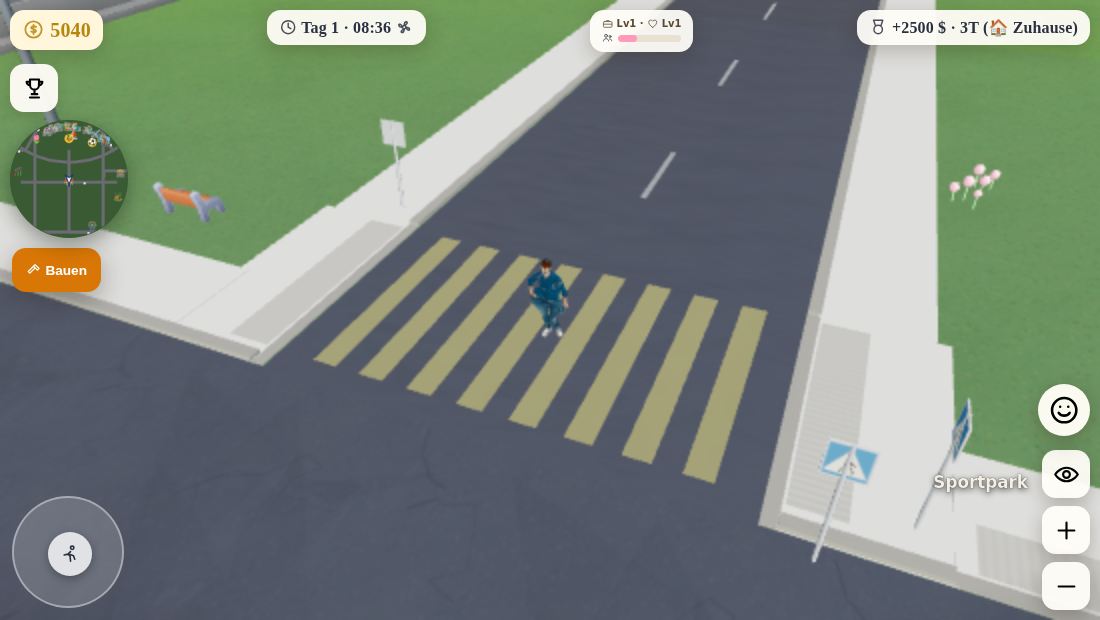
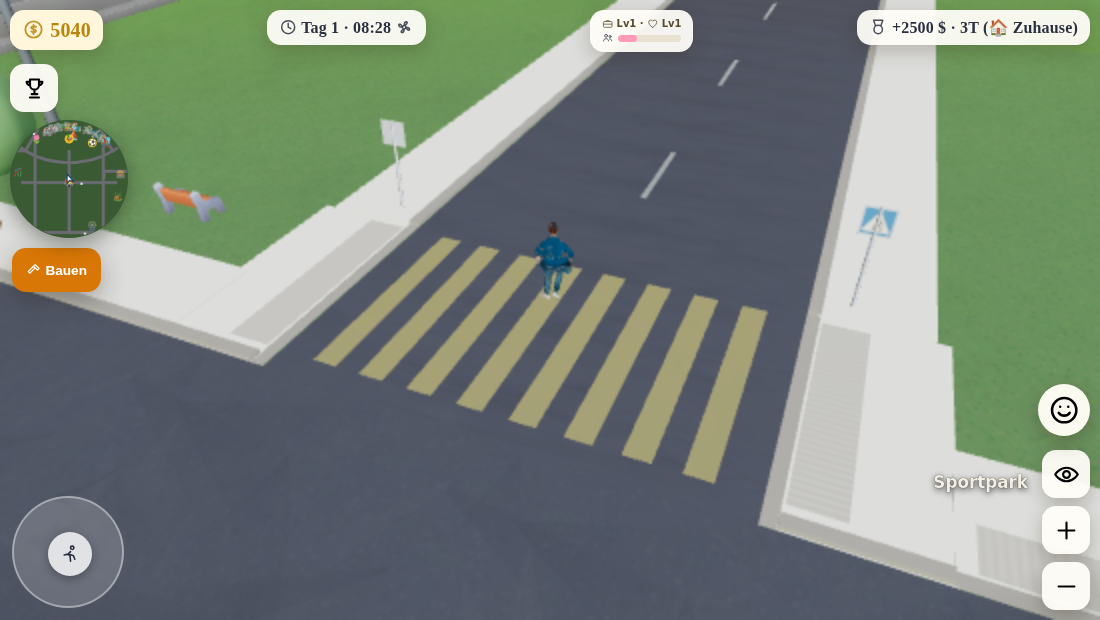
Runde 96 (Teil 5): Runbook-Abschnitt und Nachher-Bilder der T-Einmuendungen
- RUNBOOK: Runde 96 (Uebergaenge schoener) mit Vorgehen, Bauteilen, vier Lehren (_markMats-Grau,
  Messgeraet zuerst lesen, nieAusblenden fuer Instanzen, Schild hat eine Fahrtrichtung inkl.
  T-Einmuendung) und Endzahlen (th-kante 30/0, th-strassen 94, th-pruef 1001/0/2,
  probe-zebsicht 304/60/60, probe-schild 60/60).
- Bilder: Neustadt-Stich, Gewerbe, Freizeitpark, Burgdorf nachher (Eck-Schilder auf der
  anderen Streifenseite), Stich-Ecke ohne Schild in der Fahrbahn.

Claude-Session: https://claude.ai/code/session_01LKp4E9YNnEfRtqppHDhRAt

diff --git a/spiele-dev/RUNBOOK-TRAUMHAUS.md b/spiele-dev/RUNBOOK-TRAUMHAUS.md
@@ -7233,3 +7233,58 @@ Bilder: `spiele-dev/screenshots/r95-*.png` (Neustadt, Technikpark von oben, Burg
 Blumen, Weltkarte Ost, Zebra am Neustadt-Stich, Vorfeld 50 m). ⚠ th-strassen schwankt um ±3 zwischen Läufen
 (Streu ist Zufall); th-pruef nur allein laufen lassen (1001 Modelle = sauber, 804 = zu früh gemessen).
 
+
+
+## Runde 96 · 🚸 Übergänge schöner (User: „übergänge schöner")
+
+**Vorher gemessen:** alle 30 registrierten Übergänge aus `window._uebergaenge` (Sonde `probe-uebergaenge`:
+8 auf den Hauptstrassen 16 m, 8 auf den Querstrassen 10 m, 14 auf Viertelstrassen/Anschlüssen 9 m), sechs davon
+aus der Spielkamera nah fotografiert (`k24-*-vor`): weisse Balken 0,62 m im 1,15-m-Takt auf dem Asphalt, an den
+Enden hört der Gehweg auf, sonst nichts — kein Schild, keine Platte, nichts, was einen Übergang als Ort markiert.
+
+**Gebaut (eine Stelle, `_zebraAllg`, wirkt auf alle 30):**
+- **Gelbe Streifen wie in der Schweiz** (SN 640 241): 0,5 m breit, 0,5 m Lücke, Takt 1,0 m; 15 auf der Haupt-,
+  9 auf der Quer-, 8 auf der Viertelstrasse. Farbe 0xe8b73a, nachts 0x9a7d2a.
+- **Aufmerksamkeitsfeld** an jedem Ende: helle Rippenplatte 4,8 × 0,9 m auf der abgesenkten 3-cm-Platte (Rippen
+  in Gehrichtung, Oberkante 3,3 cm).
+- **Schild „Standort eines Fussgängerstreifens"** (SSV 4.11, blaues Quadrat, weisses Dreieck, schwarzer
+  Fussgänger als Canvas-Textur) auf 2,3-m-Pfahl an jedem Ende, 3,2 m neben der Streifenachse, Tafel zum
+  ankommenden Verkehr gedreht.
+- Alles als **vier InstancedMeshes** (Streifen 420, Felder/Pfähle/Tafeln je 80): vorher ~260 einzelne Planes.
+
+**Lehren:**
+1. **`_markMats` ist eine Grau-Zwangsjacke.** Der Tag/Nacht-Wechsel setzt jedes Material darin auf ein festes
+   Grau — das Vorfeld-Gelb (Runde 92) war deshalb nach dem ersten Abend grau, und gelbe Streifen wären es auch
+   geworden. Gelbe Markierungen hängen jetzt in `_gelbMats` mit eigenem Nachtton.
+2. **Erst das Messgerät lesen, dann bauen.** th-kante tastet den Bordstein im Band ±2 m um die Streifenachse ab
+   und verlangt ≤ 5 cm; th-strassen prüft jede Instanz gegen die Fahrbahnbänder. Schild darum 3,2 m neben der
+   Achse und hinter der Gehwegkante, Feld als 2-mm-Platte — beide Werkzeuge blieben so auf ihren Werten.
+3. **Instanzen brauchen `frustumCulled = false` UND `nieAusblenden`.** Die Hüllkugel der Geometrie liegt im Ursprung,
+   und die Entfernungs-Ausblendung (`lodAufbau`) entscheidet pro Objekt nach dessen Lage: die Streifen (Hüllkugel
+   2,4 m) verschwanden ab 130 m vom Ursprung, die Schilder (0,43 m) schon ab 34 m — Gewerbe und Burgdorf hatten im
+   ersten Nachher-Bild gar keinen Streifen, das Nahbild kein Schild. Sonde `probe-zebsicht` (Spieler an drei Orten,
+   `visible`/`count` der vier Meshes) belegt die Korrektur: 304 Streifen, 60 Felder/Pfähle/Tafeln, überall sichtbar.
+4. **Ein Schild hat eine Fahrtrichtung.** Rechtsverkehr (Lane-Tabelle `ROUTEN`): Strasse längs x → +z-Spur fährt
+   +x; Strasse längs z → −x-Spur fährt +z (Herleitung: rechts = Fahrtrichtung × oben). Das Schild steht auf der
+   ankommenden Spur VOR dem Streifen und schaut ihr entgegen. Der erste Anlauf hatte die x-Strassen spiegelverkehrt
+   (Bild k26-schild-nah2: der Fahrer sah die Rückseite). Sonde `probe-schild` prüft jedes der 60 Schilder gegen die
+   Regel. Erster Lauf: 56 von 60 — die vier „falschen" waren zwei Dinge auf einmal: (a) die Sonde ordnete das
+   Schild dem NÄCHSTEN Übergang zu, an T-Einmündungen liegen zwei Übergänge 12 m auseinander und das Schild
+   dazwischen (Zuordnung jetzt über die Geometrie: 3,2 m längs, hb+0,76 quer); (b) ein echter Fehler: der
+   Übergang über die einmündende Strasse liegt 7,4 m von der Mitte der durchgehenden, zwischen deren Fahrbahnkante
+   (4,5) und dem Streifenrand (5,0) bleibt ein halber Meter — das Schild „vor dem Streifen" stand 0,3 m IN der
+   durchgehenden Fahrbahn (Gewerbe, Sportpark ×2, Zoo). th-strassen hatte das nicht gesehen, weil es vor der
+   Spiegel-Korrektur lief (Lehre: nach JEDER Änderung neu messen, auch wenn „nur" gedreht wurde). SSV 4.11 steht
+   AM Streifen, nicht davor → liegt der Platz auf einer Fahrbahn (`_aufViertelWeg`), kommt das Schild auf die
+   andere Seite des Streifens, weiter der Spur zugewandt.
+
+**Endzahlen Runde 96 (Endstand, Werkzeuge einzeln):**
+| Werkzeug | Runde 95 | Runde 96 |
+|---|---|---|
+| th-kante: Übergänge · nicht abgesenkt | 30 · 0 | **30 · 0** (Schnitte 1056, ohne Bordstein 0, Lücke 4, ohne Gehweg 8) |
+| th-strassen (Stellen auf dem Belag) | 94 | **94** nach der Eck-Korrektur (der 94er-Lauf davor mass den Stand VOR der Spiegelung — dort standen die vier Eck-Schilder noch aussen; Streifen/Felder sind flach, Pfähle hinter der Gehwegkante) |
+| th-pruef: Modelle · Korridor · steckt | 1001 · 0 · 2 | **1001 · 0 · 2** · Zeichenaufrufe 187 → 196 (vier InstancedMeshes) |
+| probe-zebsicht: Streifen · Felder · Schilder sichtbar | — | **304 · 60 · 60**, an allen drei Messorten |
+| probe-schild: Schilder vor dem Streifen und dem Verkehr zugewandt | — | **60 von 60** (erster Lauf 56: vier Eck-Schilder an T-Einmündungen 0,3 m in der durchgehenden Fahrbahn → andere Streifenseite) |
+Bilder: `spiele-dev/screenshots/r96-*.png` (Vorher/Nachher Hauptstrasse, Querstrasse, Gewerbe, Neustadt-Stich,
+Freizeitpark, Burgdorf; Schild nah).
